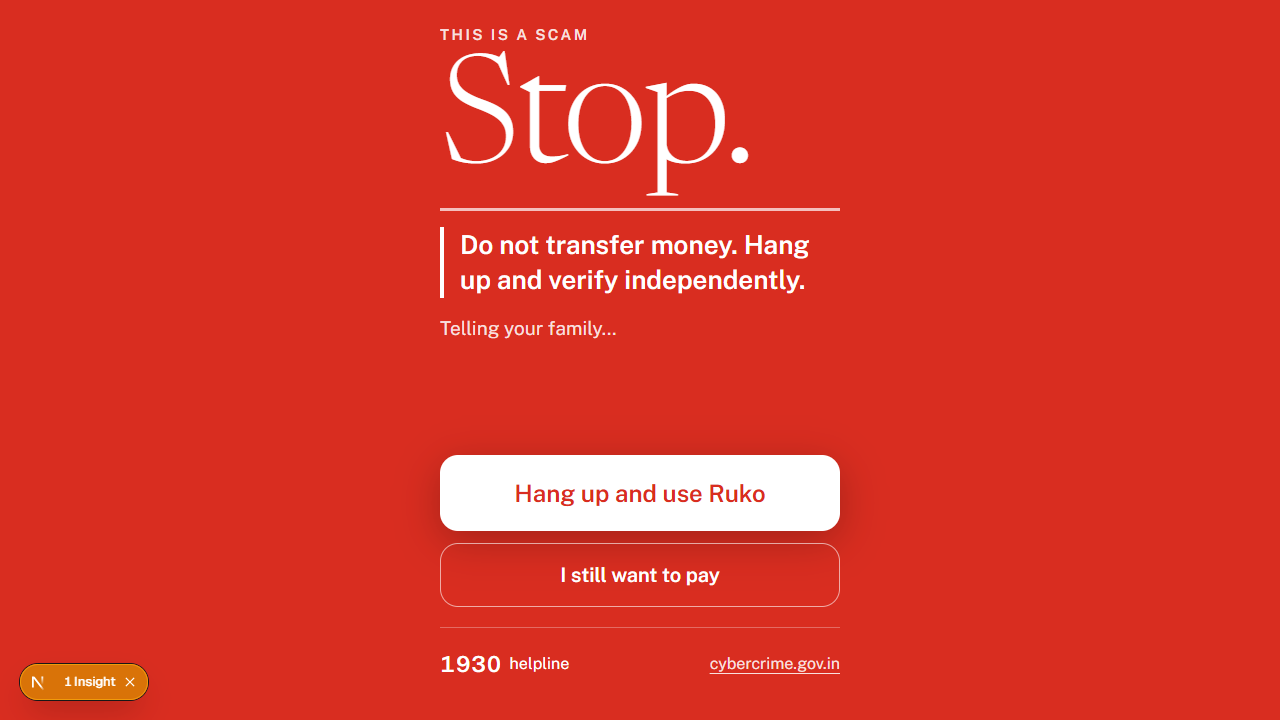
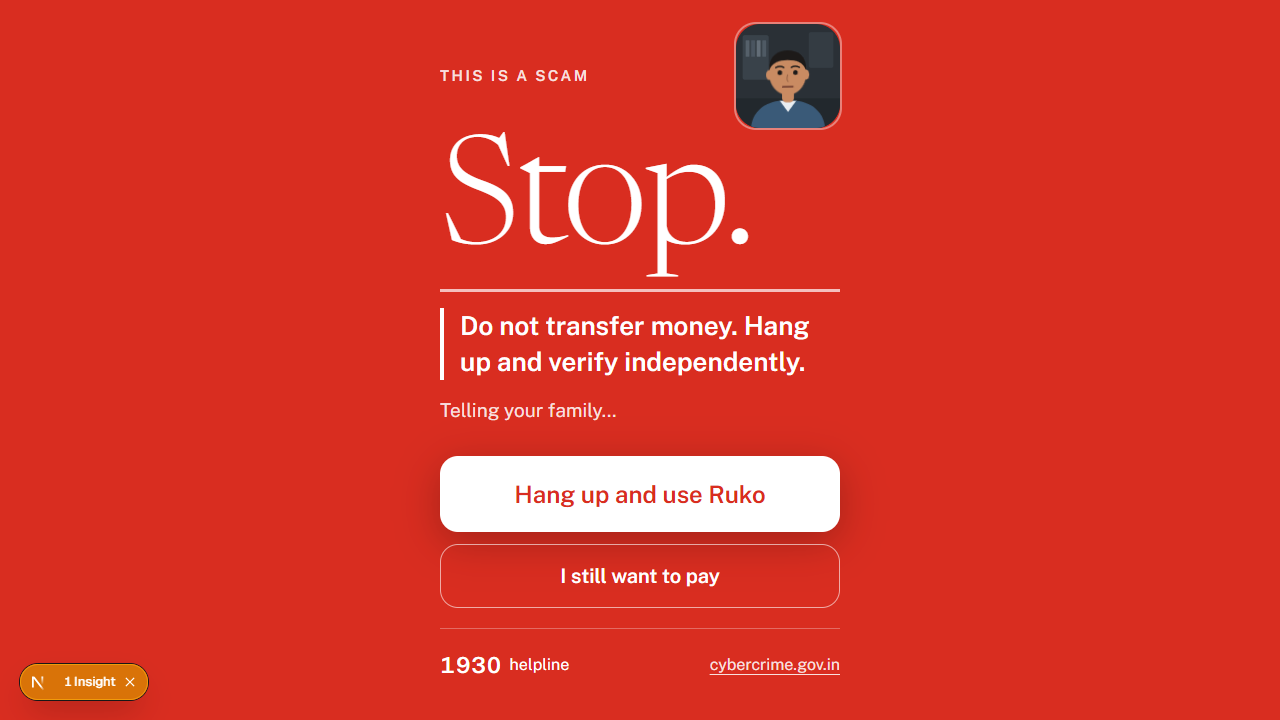
Animated scam caller: existing face plus a generic cap and collar, lip-sync, blinking, expressions, ring silhouette, unmasking, endings

diff --git a/app/components/character/CallerFace.tsx b/app/components/character/CallerFace.tsx
@@ -1,0 +1,230 @@
+"use client";
+
+import { useEffect, useRef, useState } from "react";
+import { useMotionOk } from "@/components/motion/motion";
+
+// The animated scam caller of the live call. The face is the SAME illustrated caller as the trial lab's (components/lab/CallerAvatar.tsx:
+// same head, hair, eyes, nose, ears, mouth, shirt and colours). On top of it sit a generic cartoon cap and a plain collar, so
+// people learn what a fake "officer" looks like. Both are a clear caricature: a blank shield on the cap, no text, no real agency,
+// emblem, rank, badge or colour scheme. All SVG and CSS, nothing from the network.
+//
+// What moves, and what drives it (nothing here is decided by AI):
+//   mouth      opens with the loudness of the caller's recorded voice (Web Audio analyser), or a gentle simulated wave
+//   idle life  blinking, a slight head sway, a breath in the shoulders
+//   expression set by the persuasion stage and the tactic in use (see expressionFor in lib/caller-expression.ts)
+//   unmasking  when Ruko steps in, the cap and collar drop away, "Fake officer" appears, then the face fades to a silhouette
+//   reduced motion: every animation is off and the final picture is shown at once.
+
+export type Expression = "friendly" | "sympathetic" | "stern" | "urgent" | "frustrated";
+/** silhouette: ringing. face: answered. unmask: the reveal plays. anon: plain face, tagged. frozen: still face (payment paused). */
+export type FacePhase = "silhouette" | "face" | "unmask" | "anon" | "frozen";
+
+const TONES = ["#c98b62", "#a86f4c", "#d9a07a", "#8d5a3b"];
+const BROWS: Record<Expression, [string, string]> = {
+  friendly: ["M108 116 Q120 110 130 116", "M150 116 Q160 110 172 116"],
+  sympathetic: ["M106 121 Q118 113 132 108", "M148 108 Q162 113 174 121"],
+  stern: ["M106 110 L132 120", "M148 120 L174 110"],
+  urgent: ["M106 108 Q120 98 132 106", "M148 106 Q160 98 174 108"],
+  frustrated: ["M106 112 L132 118", "M148 118 L174 112"],
+};
+const EYE_RY: Record<Expression, number> = { friendly: 6.5, sympathetic: 6, stern: 5, urgent: 7.8, frustrated: 5.4 };
+const TILT: Record<Expression, number> = { friendly: 0, sympathetic: -4, stern: 0, urgent: 0, frustrated: 3 };
+const TEMPO: Record<Expression, number> = { friendly: 1, sympathetic: 0.9, stern: 1, urgent: 1.5, frustrated: 1.25 };
+
+export function CallerFace({
+  phase,
+  expression = "friendly",
+  getLevel,
+  speaking = false,
+  seed = 0,
+  size = 160,
+  backdrop = true,
+  tag = true,
+  className = "",
+}: {
+  phase: FacePhase;
+  expression?: Expression;
+  /** 0..1 loudness of the caller's voice, or a negative number when it cannot be measured (the mouth then simulates). */
+  getLevel?: () => number;
+  speaking?: boolean;
+  seed?: number;
+  size?: number;
+  backdrop?: boolean;
+  /** Show the "Fake officer" tag after the unmasking. */
+  tag?: boolean;
+  className?: string;
+}) {
+  const ok = useMotionOk();
+  const mouth = useRef<SVGEllipseElement>(null);
+  const speakRef = useRef(speaking);
+  speakRef.current = speaking;
+  const levelRef = useRef(getLevel);
+  levelRef.current = getLevel;
+  const [tagOn, setTagOn] = useState(false);
+  const [gone, setGone] = useState(false); // after the reveal, the face fades to a silhouette
+  const skin = TONES[seed % TONES.length];
+  const shirt = ["#3a5a78", "#5b6b5a", "#6b4f6a", "#4a4f57"][seed % 4];
+
+  // Lip-sync: the mouth follows the voice. Still when motion is off, and when the face is not "live".
+  useEffect(() => {
+    const m = mouth.current;
+    if (!m) return;
+    const live = phase === "face" || phase === "unmask";
+    if (!ok || !live) {
+      m.style.transform = "scaleY(0.25)";
+      return;
+    }
+    let raf = 0;
+    let v = 0.25;
+    const tick = (t: number) => {
+      let target = 0.2;
+      if (speakRef.current) {
+        const raw = levelRef.current ? levelRef.current() : -1;
+        target = raw >= 0 ? 0.25 + Math.min(1, raw * 1.6) * 0.85 : 0.3 + 0.55 * Math.abs(Math.sin(t / 95) * Math.sin(t / 240 + 1));
+      }
+      v += (target - v) * 0.4;
+      m.style.transform = `scaleY(${v.toFixed(3)})`;
+      raf = requestAnimationFrame(tick);
+    };
+    raf = requestAnimationFrame(tick);
+    return () => cancelAnimationFrame(raf);
+  }, [ok, phase]);
+
+  // The reveal: cap and collar drop (about 0.6 s), the tag appears, and at 1.2 s the face fades to a silhouette.
+  useEffect(() => {
+    // eslint-disable-next-line react-hooks/set-state-in-effect
+    setGone(false);
+    if (phase !== "unmask" || !ok) return;
+    const t = setTimeout(() => setGone(true), 1200);
+    return () => clearTimeout(t);
+  }, [phase, ok]);
+
+  // "Fake officer" appears just after the cap drops (0.55 s), or at once without motion.
+  useEffect(() => {
+    // eslint-disable-next-line react-hooks/set-state-in-effect
+    setTagOn(false);
+    if (phase === "anon" || (phase === "unmask" && !ok)) {
+      setTagOn(true);
+      return;
+    }
+    if (phase !== "unmask") return;
+    const t = setTimeout(() => setTagOn(true), 550);
+    return () => clearTimeout(t);
+  }, [phase, ok]);
+
+  const unmasked = phase === "unmask" || phase === "anon";
+  const frozen = phase === "frozen";
+  const dropping = phase === "unmask" && ok;
+  const sil = phase === "silhouette" || (phase === "unmask" && gone);
+  const ry = EYE_RY[expression];
+  const [bl, br] = BROWS[expression];
+  const tempo = TEMPO[expression];
+  const showCap = !unmasked || dropping;
+
+  return (
+    <div className={`relative inline-block ${className}`} style={{ width: size, height: size }}>
+      <svg
+        viewBox="0 0 280 280"
+        width={size}
+        height={size}
+        role="img"
+        aria-label={phase === "silhouette" ? "Unknown caller (silhouette)" : "The scam caller (role-play)"}
+        className={frozen ? "cf-still" : undefined}
+        style={{ filter: sil ? "brightness(0.12) contrast(0.8)" : "none", opacity: sil ? 0.55 : 1, transition: ok ? "filter 600ms ease, opacity 600ms ease" : undefined, borderRadius: backdrop ? 24 : 0 }}
+      >
+        <style>{`
+          @media (prefers-reduced-motion: no-preference) {
+            .cf-blink { transform-box: fill-box; transform-origin: center; animation: cf-blink 4.2s infinite; }
+            .cf-sway { transform-origin: 140px 205px; animation: cf-sway calc(6.5s / var(--cf-tempo, 1)) ease-in-out infinite; }
+            .cf-breathe { animation: cf-breathe calc(4.2s / var(--cf-tempo, 1)) ease-in-out infinite; }
+            .cf-cap-off { animation: cf-cap 0.6s cubic-bezier(.5,0,.9,.4) forwards; }
+            .cf-collar-off { animation: cf-collar 0.55s 0.08s ease-in forwards; }
+          }
+          .cf-still * { animation: none !important; }
+          @keyframes cf-blink { 0%,94%,100% { transform: scaleY(1) } 97% { transform: scaleY(.1) } }
+          @keyframes cf-sway { 0%,100% { transform: rotate(calc(var(--cf-tilt, 0) * 1deg - 1.2deg)) } 50% { transform: rotate(calc(var(--cf-tilt, 0) * 1deg + 1.2deg)) } }
+          @keyframes cf-breathe { 0%,100% { transform: translateY(0) } 50% { transform: translateY(2px) } }
+          @keyframes cf-cap { to { transform: translate(46px,-110px) rotate(38deg); opacity: 0 } }
+          @keyframes cf-collar { to { transform: translateY(46px); opacity: 0 } }
+        `}</style>
+        <g style={{ ["--cf-tempo" as string]: tempo, ["--cf-tilt" as string]: TILT[expression] }}>
+          {backdrop && (
+            <>
+              <rect width="280" height="280" fill="#2a3036" />
+              <rect x="18" y="30" width="70" height="120" rx="6" fill="#39424a" />
+              <rect x="196" y="22" width="66" height="96" rx="6" fill="#343c43" />
+              {[0, 1, 2, 3].map((i) => (
+                <rect key={i} x={26 + i * 15} y="44" width="10" height="44" rx="2" fill={["#55606a", "#4a5560", "#626d77", "#4f5a64"][i]} />
+              ))}
+              <rect x="0" y="200" width="280" height="80" fill="#22282d" />
+            </>
+          )}
+          <g className="cf-breathe">
+            {/* body */}
+            <path d="M40 280 C46 222 92 204 140 204 C188 204 234 222 240 280 Z" fill={shirt} />
+            <path d="M118 206 L140 236 L162 206 Z" fill="#e9eef2" />
+            {/* a plain collar: two flaps, no stripes, pins or lettering */}
+            {(!unmasked || dropping) && (
+              <g className={dropping ? "cf-collar-off" : ""}>
+                <path d="M92 216 L132 205 L141 240 L100 250 Z" fill="#3b4650" />
+                <path d="M188 216 L148 205 L139 240 L180 250 Z" fill="#3b4650" />
+                <path d="M132 205 L141 240 L136 212 Z" fill="#2a333b" />
+              </g>
+            )}
+            <rect x="124" y="176" width="32" height="34" rx="12" fill={skin} />
+            <g className="cf-sway">
+              {/* head, exactly as the lab caller */}
+              <ellipse cx="140" cy="132" rx="50" ry="58" fill={skin} />
+              <path d="M90 124 C90 82 116 70 140 70 C170 70 192 86 190 124 C182 104 166 96 140 96 C116 96 98 104 90 124 Z" fill="#1d1a19" />
+              <ellipse cx="90" cy="136" rx="8" ry="13" fill={skin} />
+              <ellipse cx="190" cy="136" rx="8" ry="13" fill={skin} />
+              <path d={bl} stroke="#1d1a19" strokeWidth="4" fill="none" strokeLinecap="round" />
+              <path d={br} stroke="#1d1a19" strokeWidth="4" fill="none" strokeLinecap="round" />
+              <ellipse className="cf-blink" cx="119" cy="130" rx="6" ry={ry} fill="#1d1a19" />
+              <ellipse className="cf-blink" cx="161" cy="130" rx="6" ry={ry} fill="#1d1a19" />
+              <path d="M140 136 Q136 150 141 154" stroke="#7a4a32" strokeWidth="3" fill="none" strokeLinecap="round" opacity=".6" />
+              <ellipse ref={mouth} cx="140" cy="168" rx={expression === "frustrated" ? 12 : 15} ry="9" fill="#5a2a22" style={{ transformOrigin: "140px 168px", transform: "scaleY(0.25)" }} />
+              {/* a generic cartoon peaked cap: grey, with a blank shield. No text, no real force's colours, crest or insignia. */}
+              {showCap && (
+                <g className={dropping ? "cf-cap-off" : ""}>
+                  <path d="M82 110 C80 54 110 38 140 38 C170 38 200 54 198 110 C186 98 168 94 140 94 C112 94 94 98 82 110 Z" fill="#323d47" />
+                  <path d="M84 100 C100 92 120 90 140 90 C160 90 180 92 196 100 L197 111 C182 101 164 98 140 98 C116 98 98 101 83 111 Z" fill="#56646f" />
+                  <path d="M94 106 Q140 132 186 106 L182 115 Q140 140 98 115 Z" fill="#1d252c" />
+                  <path d="M140 52 L156 58 V74 C156 83 149 88 140 91 C131 88 124 83 124 74 V58 Z" fill="#e8dcc0" />
+                </g>
+              )}
+            </g>
+          </g>
+        </g>
+      </svg>
+      {frozen && (
+        <span className="absolute inset-x-0 bottom-1 mx-auto w-fit rounded-full bg-[#060a10]/85 px-3 py-0.5 text-[12px] font-bold tracking-wide whitespace-nowrap text-white uppercase">Payment paused</span>
+      )}
+      {tag && (unmasked || sil) && phase !== "silhouette" && (
+        <span
+          className="absolute inset-x-0 bottom-1 mx-auto w-fit rounded-full bg-[#ff4d3d] px-3 py-0.5 text-[12px] font-bold tracking-wide whitespace-nowrap text-white uppercase"
+          style={{ opacity: tagOn ? 1 : 0, transform: tagOn ? "scale(1)" : "scale(0.8)", transition: ok ? "opacity 300ms ease, transform 300ms cubic-bezier(.22,1,.36,1)" : undefined }}
+        >
+          Fake officer
+        </span>
+      )}
+    </div>
+  );
+}
+
+/** Ending A: the caller's silhouette fades out and a calm Ruko shield takes its place. Only the shield when motion is off. */
+export function SilhouetteToShield({ shield, size = 96 }: { shield: React.ReactNode; size?: number }) {
+  const ok = useMotionOk();
+  return (
+    <div className="relative" style={{ width: size, height: size }} aria-hidden>
+      {ok && (
+        <div className="absolute inset-0 overflow-hidden rounded-full" style={{ animation: "ruko-fade 0.9s ease-in reverse forwards" }}>
+          <CallerFace phase="silhouette" size={size} />
+        </div>
+      )}
+      <div className="absolute inset-0 grid place-items-center" style={{ animation: ok ? "ruko-fade 0.7s 0.5s ease-out both" : undefined }}>
+        {shield}
+      </div>
+    </div>
+  );
+}

diff --git a/app/components/demo/LiveCall.tsx b/app/components/demo/LiveCall.tsx
@@ -17,6 +17,8 @@ import { clipPlan, RUKO_STOP, type LiveManifest } from "@/lib/live-audio";
 import { hush as speechHush, ring } from "@/lib/voice";
 import { CallTimeline, KaraokeCaption, TacticChip, TensionMeter, Waveform } from "@/components/motion/call-motion";
 import { MotionToggle } from "@/components/motion/motion";
+import { CallerFace, SilhouetteToShield } from "@/components/character/CallerFace";
+import { expressionFor, type CallerExpression } from "@/lib/caller-expression";
 import { TACTIC_WHY } from "@/lib/tactic-explain";
 
 // The recorded clip that is playing now (if any), so "hush" can stop it as fast as it stops the browser voice.
@@ -94,6 +96,7 @@ export function LiveCall({ elderId, demo, trusted }: { elderId: string; demo: bo
   const [phase, setPhase] = useState<Phase>("consent");
   const [officerLine, setOfficerLine] = useState("");
   const [prevLine, setPrevLine] = useState("");
+  const [expression, setExpression] = useState<CallerExpression>("friendly");
   const lineRef = useRef("");
   const levelRef = useRef(0);
   const [pressure, setPressure] = useState(0);
@@ -517,6 +520,7 @@ export function LiveCall({ elderId, demo, trusted }: { elderId: string; demo: bo
     setHud({ level: "clear", tactics: [], objection: null, source: null, reading: false });
     setPressure(0);
     setUsedIds([]);
+    setExpression("friendly");
     let carry = false;
     let outcome = await say(turn.text, "officer", id);
     for (let guard = 0; guard < 30 && id === run.current; guard++) {
@@ -591,6 +595,7 @@ export function LiveCall({ elderId, demo, trusted }: { elderId: string; demo: bo
       state = turn.state;
       if (turn.kind === "end") return endCall("stop_word", state);
       const text = turn.text;
+      setExpression(expressionFor(STAGES[Math.max(0, state.stage)], turn.objection, turn.kind));
       const source = hint ? "ai" : "recorded";
       convo.push({ who: "officer", text });
       {
@@ -776,7 +781,9 @@ export function LiveCall({ elderId, demo, trusted }: { elderId: string; demo: bo
             {[0, 1, 2].map((i) => (
               <span key={i} className="m-ring absolute inset-0 rounded-full border border-ink/30" style={{ "--i": i } as React.CSSProperties} />
             ))}
-            <Guardian mood="safe" className="relative size-16" />
+            <span className="relative block size-[84px] overflow-hidden rounded-full">
+              <CallerFace phase="silhouette" size={84} />
+            </span>
           </span>
           <p className="mt-8 text-[18px] text-ink-soft">{en ? "Incoming call" : "Incoming call"}</p>
           <p className="display mt-1 text-[44px] leading-tight">{en ? "Unknown number" : "Anjaan number"}</p>
@@ -810,12 +817,15 @@ export function LiveCall({ elderId, demo, trusted }: { elderId: string; demo: bo
 
           {/* The caller: a circle that glows while he speaks, his name, and what he is saying (captions, always on). */}
           <div className="mt-4 flex items-center gap-5">
-            <span className="relative grid size-[132px] shrink-0 place-items-center" aria-hidden>
-              <Waveform className="absolute inset-0" getLevel={getWaveLevel} mode={status === "speaking" ? "speaking" : status === "listening" && !muted ? "listening" : status === "thinking" ? "thinking" : "idle"} />
-              <span className="relative grid size-16 place-items-center rounded-full bg-[#38e1ff]/15 text-[30px] text-[#38e1ff]">S</span>
+            <span className="relative grid size-[160px] shrink-0 place-items-center">
+              <Waveform className="absolute inset-0" size={160} getLevel={getWaveLevel} mode={status === "speaking" ? "speaking" : status === "listening" && !muted ? "listening" : status === "thinking" ? "thinking" : "idle"} />
+              <span className="relative block size-[96px] overflow-hidden rounded-full ring-2 ring-[#38e1ff]/40">
+                <CallerFace phase="face" expression={expression} speaking={status === "speaking"} getLevel={getWaveLevel} size={96} />
+              </span>
             </span>
             <div>
               <p className="text-[24px] font-semibold">Officer Sethi</p>
+              <p className="mt-0.5 inline-block rounded-full border border-[#ff4d3d]/50 px-2.5 py-0.5 font-mono text-[12px] font-semibold tracking-wide text-[#ff8a7d] uppercase">{en ? "Scam caller (role-play)" : "Scam caller (role-play)"}</p>
               <p className="text-[15px] text-white/60">
                 {DEMO_NUMBER} · actor{status === "speaking" ? (en ? " · speaking" : " · bol raha hai") : ""}
               </p>
@@ -923,6 +933,9 @@ export function LiveCall({ elderId, demo, trusted }: { elderId: string; demo: bo
           <div className="mx-auto flex min-h-full max-w-md flex-col px-6 pt-6 pb-8">
             <div className="flex items-center justify-between">
               <p className="text-[15px] font-semibold tracking-[0.16em] text-white/85 uppercase">{en ? "This is a scam" : "Yeh scam hai"}</p>
+              <span className="relative block size-[104px] overflow-hidden rounded-[20px] ring-2 ring-white/40">
+                <CallerFace phase="unmask" size={104} backdrop />
+              </span>
               
             </div>
             <h1 id="live-stop" className="m-stop-in display mt-4 text-[150px] leading-[0.86] text-white">
@@ -970,6 +983,9 @@ export function LiveCall({ elderId, demo, trusted }: { elderId: string; demo: bo
 
       {phase === "endA" && (
         <section className="m-rise flex flex-1 flex-col">
+          <div className="mt-4 self-start">
+            <SilhouetteToShield size={88} shield={<Guardian mood="after" className="size-20" />} />
+          </div>
           <h1 className="display mt-6 text-[44px] leading-[1.05]">{endedBy === "stop_word" ? (en ? "Call ended. You are safe." : "Call khatam. Aap surakshit hain.") : en ? "Call ended. You paused." : "Call khatam. Aap ruk gaye."}</h1>
           <p className="mt-3 rounded-[18px] bg-safe-soft p-4 text-[21px] leading-snug font-semibold text-safe">{en ? "You have paused. That was a good step." : "Aap ruk gaye. Yeh achha kadam tha."}</p>
           <ol className="mt-5 flex flex-col gap-3 text-[21px] leading-snug">
@@ -992,6 +1008,12 @@ export function LiveCall({ elderId, demo, trusted }: { elderId: string; demo: bo
       {phase === "endB" && (
         <section className="m-rise flex flex-1 flex-col">
           <p className="mt-4 rounded-[12px] bg-ink px-4 py-3 text-center text-[17px] font-semibold tracking-[0.1em] text-white uppercase">MOCK BANK · {en ? "practice only · no real money" : "sirf practice · asli paise nahi"}</p>
+          <div className="mt-3 flex items-center gap-3">
+            <span className="block size-[64px] shrink-0 overflow-hidden rounded-full">
+              <CallerFace phase={tx && ["held", "pending"].includes(tx.status) ? "frozen" : "face"} expression="urgent" speaking={false} size={64} tag={false} />
+            </span>
+            <p className="text-[17px] leading-snug text-ink-soft">{tx && ["held", "pending"].includes(tx.status) ? (en ? "The caller is frozen. Payment paused." : "Caller ruka hua hai. Payment ruka hua hai.") : en ? "The caller is waiting on the line…" : "Caller line par intezaar kar raha hai…"}</p>
+          </div>
           <div className="mt-3 overflow-hidden rounded-[18px] border border-hair">
             <iframe title="Practice bank" src="/bank?embed=1&prefill=live" className="h-[560px] w-full" />
           </div>

diff --git a/app/lib/caller-expression.ts b/app/lib/caller-expression.ts
@@ -1,0 +1,23 @@
+import type { Objection } from "./officer-brain";
+
+// Which face the fake officer makes. Decided by code from the persuasion stage and the tactic in use, never by AI.
+export type CallerExpression = "friendly" | "sympathetic" | "stern" | "urgent" | "frustrated";
+
+export function expressionFor(stage: string | null | undefined, objection?: Objection | null, kind?: string): CallerExpression {
+  // An answer to what the person just said comes first: warm for fear, money worries and anger ("I understand"), tight for pushback.
+  if (kind === "counter" && objection) {
+    if (objection === "scared" || objection === "no_money" || objection === "angry") return "sympathetic";
+    return "frustrated";
+  }
+  switch (stage) {
+    case "isolation":
+    case "authority":
+      return "stern";
+    case "urgency":
+    case "payment_ask":
+    case "closing":
+      return "urgent";
+    default:
+      return "friendly"; // contact, fear: the rapport stage
+  }
+}

diff --git a/app/components/motion/motion.tsx b/app/components/motion/motion.tsx
@@ -54,7 +54,7 @@ export function MotionToggle({ tone = "light" }: { tone?: "light" | "dark" }) {
       onClick={flip}
       role="switch"
       aria-checked={reduced}
-      className={`inline-flex min-h-11 items-center gap-2 rounded-full border px-4 text-[14px] font-semibold ${tone === "dark" ? "border-white/25 text-white/80" : "border-hair text-ink-soft"}`}
+      className={`inline-flex min-h-11 items-center gap-2 rounded-full border px-3 text-[13px] font-semibold whitespace-nowrap ${tone === "dark" ? "border-white/25 text-white/80" : "border-hair text-ink-soft"}`}
     >
       <span aria-hidden className={`inline-block h-4 w-7 rounded-full p-0.5 ${reduced ? (tone === "dark" ? "bg-[#38e1ff]" : "bg-ink") : "bg-current opacity-30"}`}>
         <span className={`block size-3 rounded-full bg-white transition-transform ${reduced ? "translate-x-3" : ""}`} />
